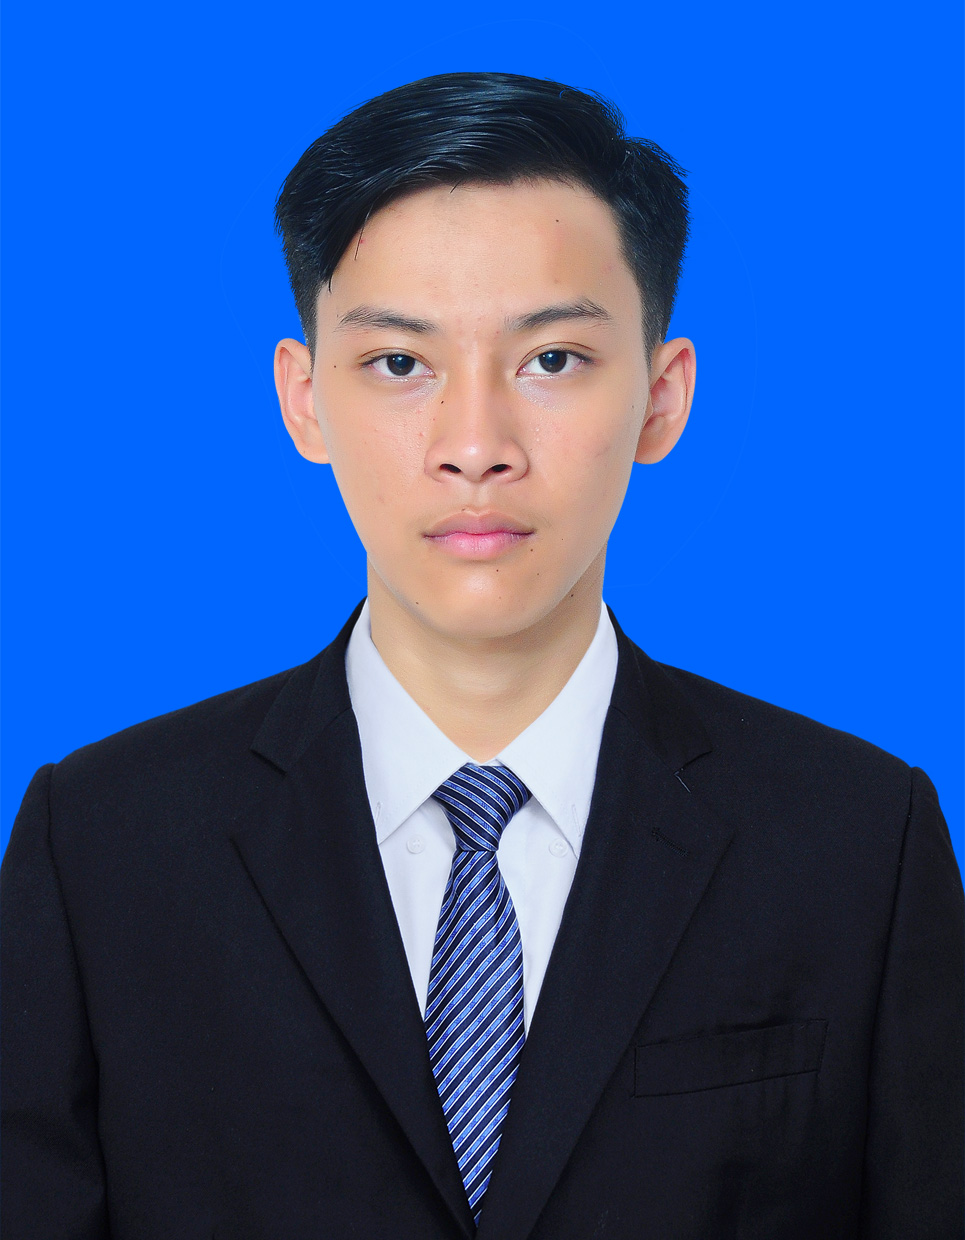
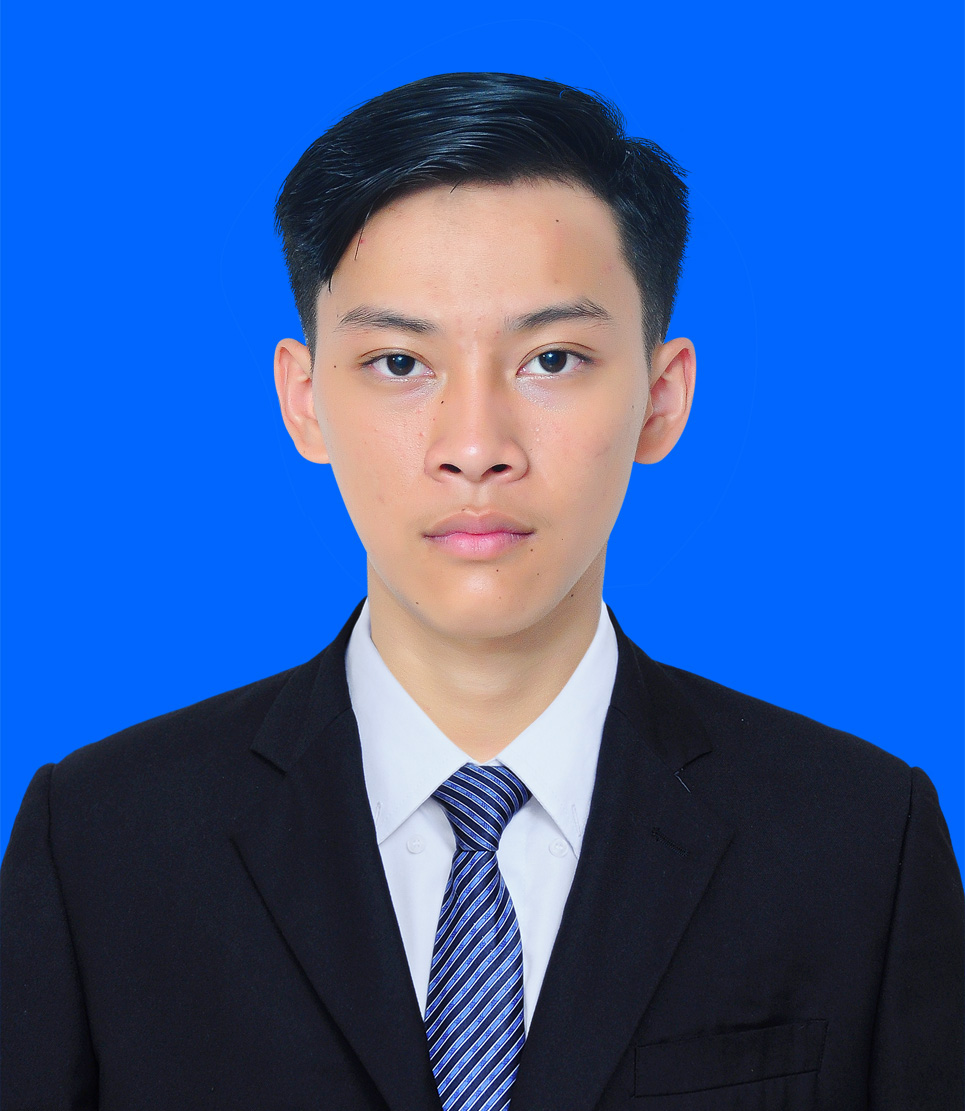
change some code

Changed region(s): [[0.0, 0.0306, 1.0, 1.0], [0.0933, 0.8569, 0.1244, 0.8875]]

diff --git a/components/Skills.tsx b/components/Skills.tsx
@@ -1,16 +1,21 @@
-'use client';
+"use client";
 
-import { skills } from '@/lib/data/skills';
+import { skills } from "@/lib/data/skills";
 
 export function Skills() {
   return (
     <section id="skills" className="py-20 px-4 sm:px-6 lg:px-8">
-      <div className="max-w-4xl mx-auto">
+      <div className="max-w-5xl mx-auto">
         <h2 className="text-4xl font-bold mb-12 text-center">Skills</h2>
         <div className="grid md:grid-cols-2 gap-5 space-y-4 animate-fadeInUp">
           {skills.map((skillGroup) => (
-            <div key={skillGroup.category} className="bg-card/50 rounded-2xl p-3 border">
-              <h3 className="text-lg font-semibold mb-4 text-primary">{skillGroup.category}</h3>
+            <div
+              key={skillGroup.category}
+              className="rounded-2xl p-4 border-2 border-gray-500"
+            >
+              <h3 className="text-lg font-semibold mb-4 text-primary">
+                {skillGroup.category}
+              </h3>
               <div className="flex flex-wrap gap-2">
                 {skillGroup.items.map((skill) => (
                   <span
@@ -28,4 +33,3 @@ export function Skills() {
     </section>
   );
 }
-

diff --git a/components/Projects.tsx b/components/Projects.tsx
@@ -12,7 +12,7 @@ export function Projects() {
           {projects.map((project, index) => (
             <div
               key={project.id}
-              className="group relative overflow-hidden rounded-xl bg-card border border-border hover-glow"
+              className="group relative overflow-hidden rounded-xl bg-card border-2 border-gray-500 hover-glow"
               style={{ animationDelay: `${index * 0.1}s` }}
             >
               <div className="absolute inset-0 bg-gradient-to-br from-primary/20 to-accent/20 opacity-0 group-hover:opacity-100 transition-opacity duration-300" />
@@ -34,7 +34,7 @@ export function Projects() {
                   ))}
                 </div>
 
-                <div className="flex gap-4 pt-6 border-t border-border ">
+                <div className="flex gap-4 pt-6 border-t border-gray-500 ">
                   <a
                     href={project.link}
                     className="flex items-center gap-2 text-primary hover:underline hover:text-red-500 transition-colors"

diff --git a/components/About.tsx b/components/About.tsx
@@ -14,7 +14,7 @@ export function About() {
             style={{ animationDelay: "0.1s" }}
           >
             <div className="relative flex justify-center md:justify-start">
-              <div className="relative w-64 h-64 md:w-72 md:h-72 group">
+              <div className="relative w-64 h-72 md:w-72 md:h-80 group">
                 <div className="absolute inset-0 rounded-2xl bg-gradient-to-br from-primary/50 via-primary/30 to-primary/10 blur-xl opacity-60 group-hover:opacity-80"></div>
 
                 <div className="relative w-full h-full rounded-2xl overflow-hidden border-2 ">

diff --git a/components/Contact.tsx b/components/Contact.tsx
@@ -58,7 +58,7 @@ export function Contact() {
 
         <div className="mt-12 pt-8 border-t border-border">
           <p className="text-foreground/50 text-sm">
-            © {2026} {profile.name}. Designed & built with ❤ using Next.js, React, and Tailwind CSS.
+            © {2026} {profile.name}. Designed & built with ❤ using Next.js and Tailwind CSS.
           </p>
         </div>
       </div>

diff --git a/app/layout.tsx b/app/layout.tsx
@@ -10,7 +10,7 @@ const _sora = Sora({ subsets: ["latin"], variable: "--font-heading" });
 
 export const metadata: Metadata = {
   title: 'Korm Taiyi - Portfolio',
-  description: 'Web Developer Portfolio - React, Next.js, TypeScript & Tailwind CSS',
+  description: 'Full-stack developer specializing in building high-performance e-learning platforms.',
   icons: {
     icon: [
       {

diff --git a/app/page.tsx b/app/page.tsx
@@ -28,8 +28,8 @@ export default function Portfolio() {
     <div className="min-h-screen bg-background text-foreground overflow-x-hidden">
       <Navigation activeSection={activeSection} onSectionChange={scrollToSection} />
       <Hero onScroll={scrollToSection} />
-      <About />
       <Skills />
+      <About />
       <Projects />
       <Contact />
     </div>
